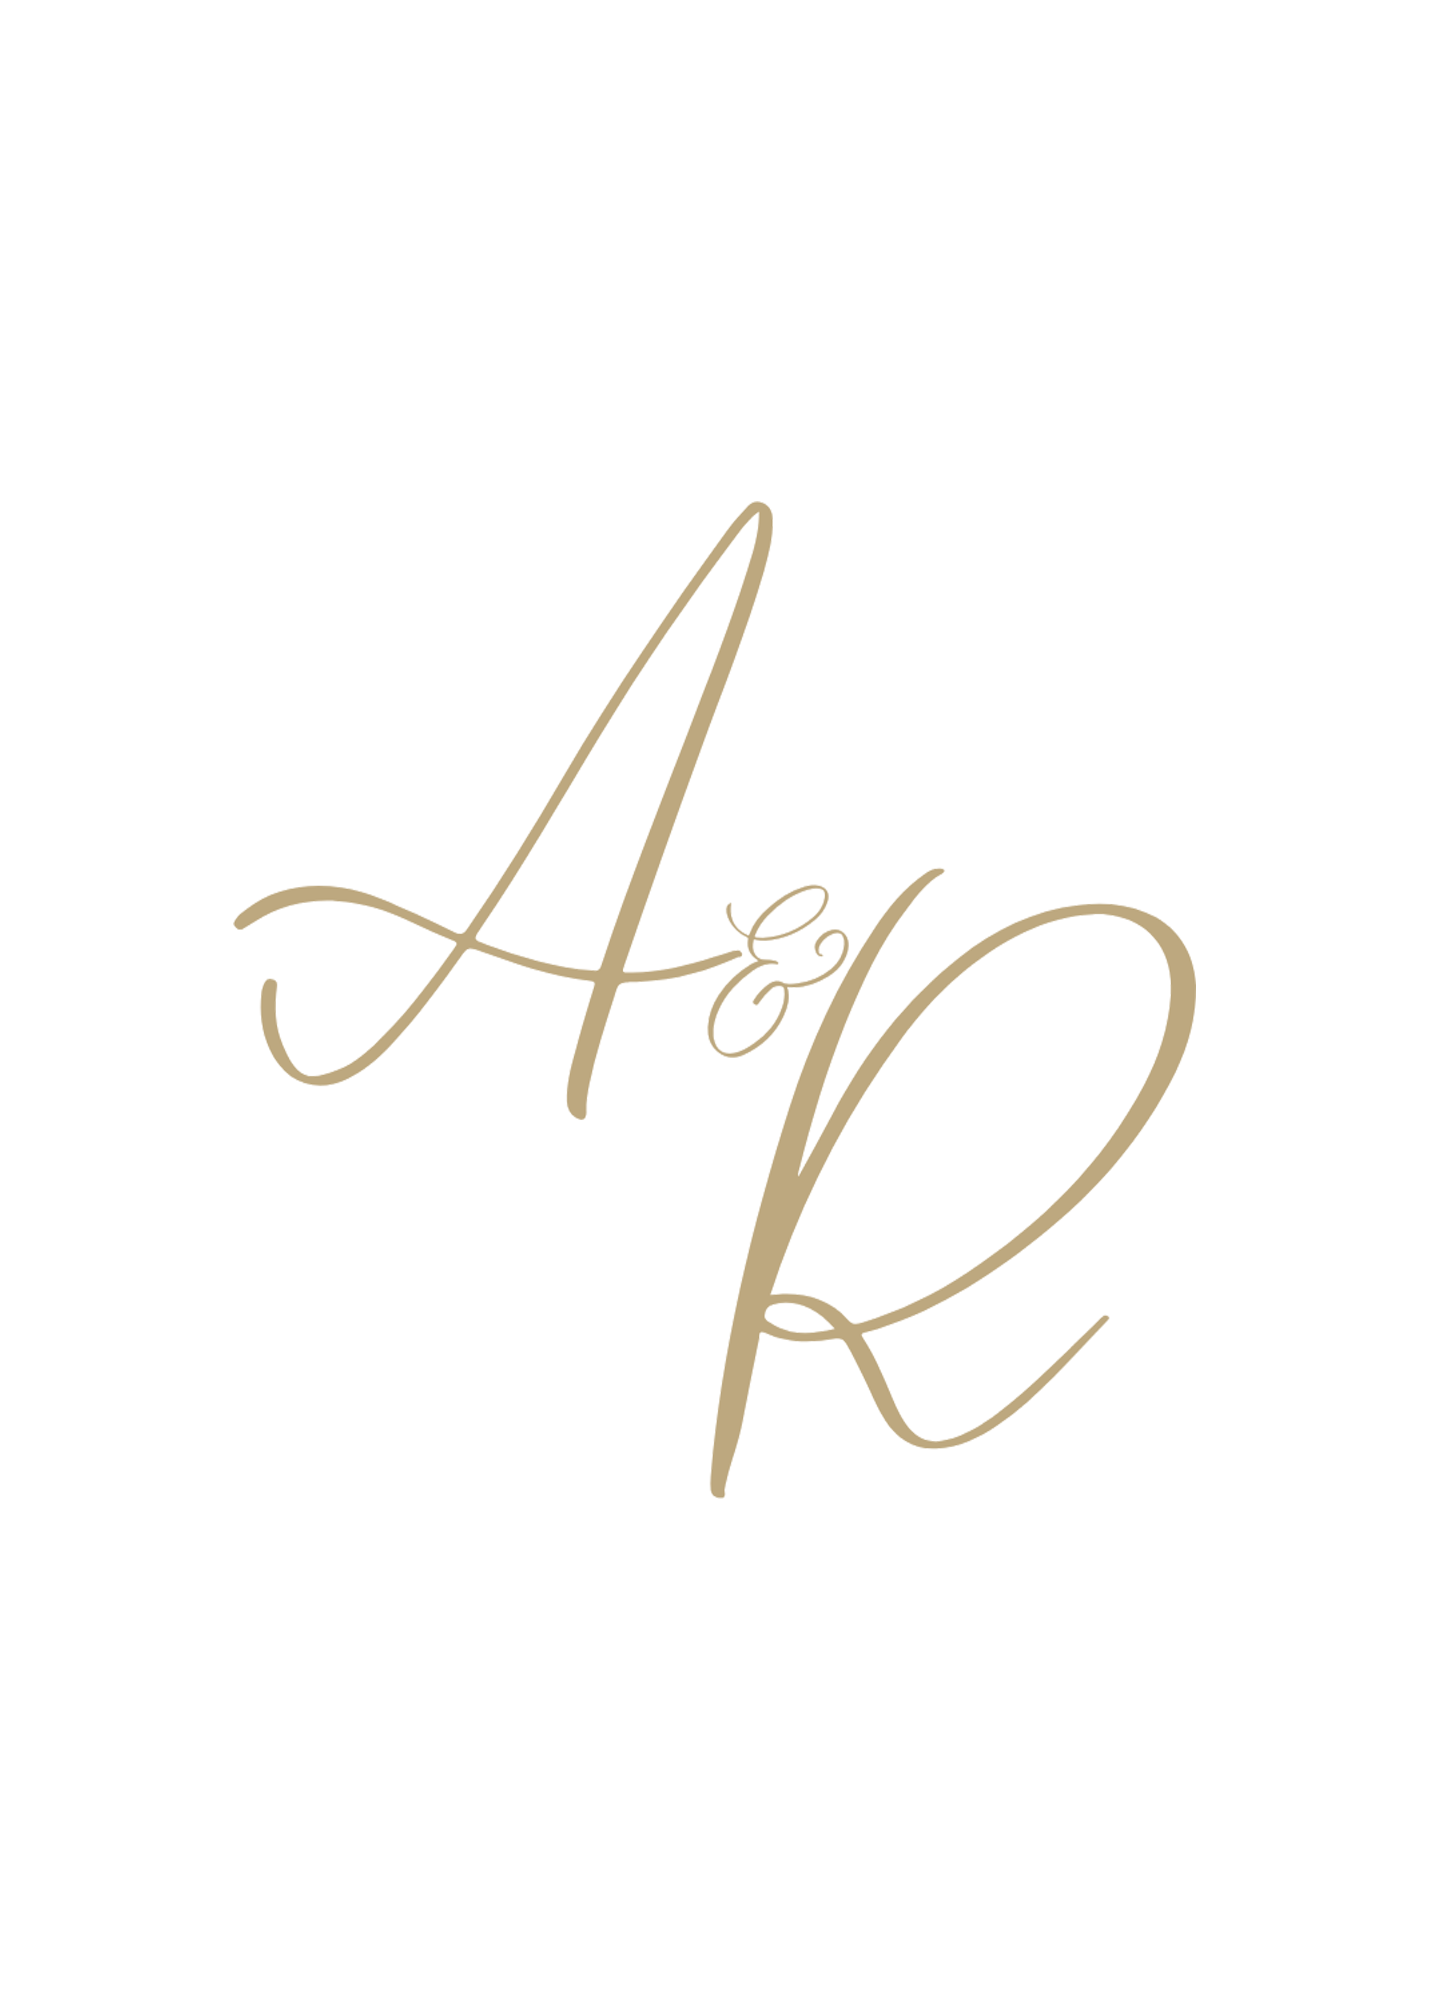
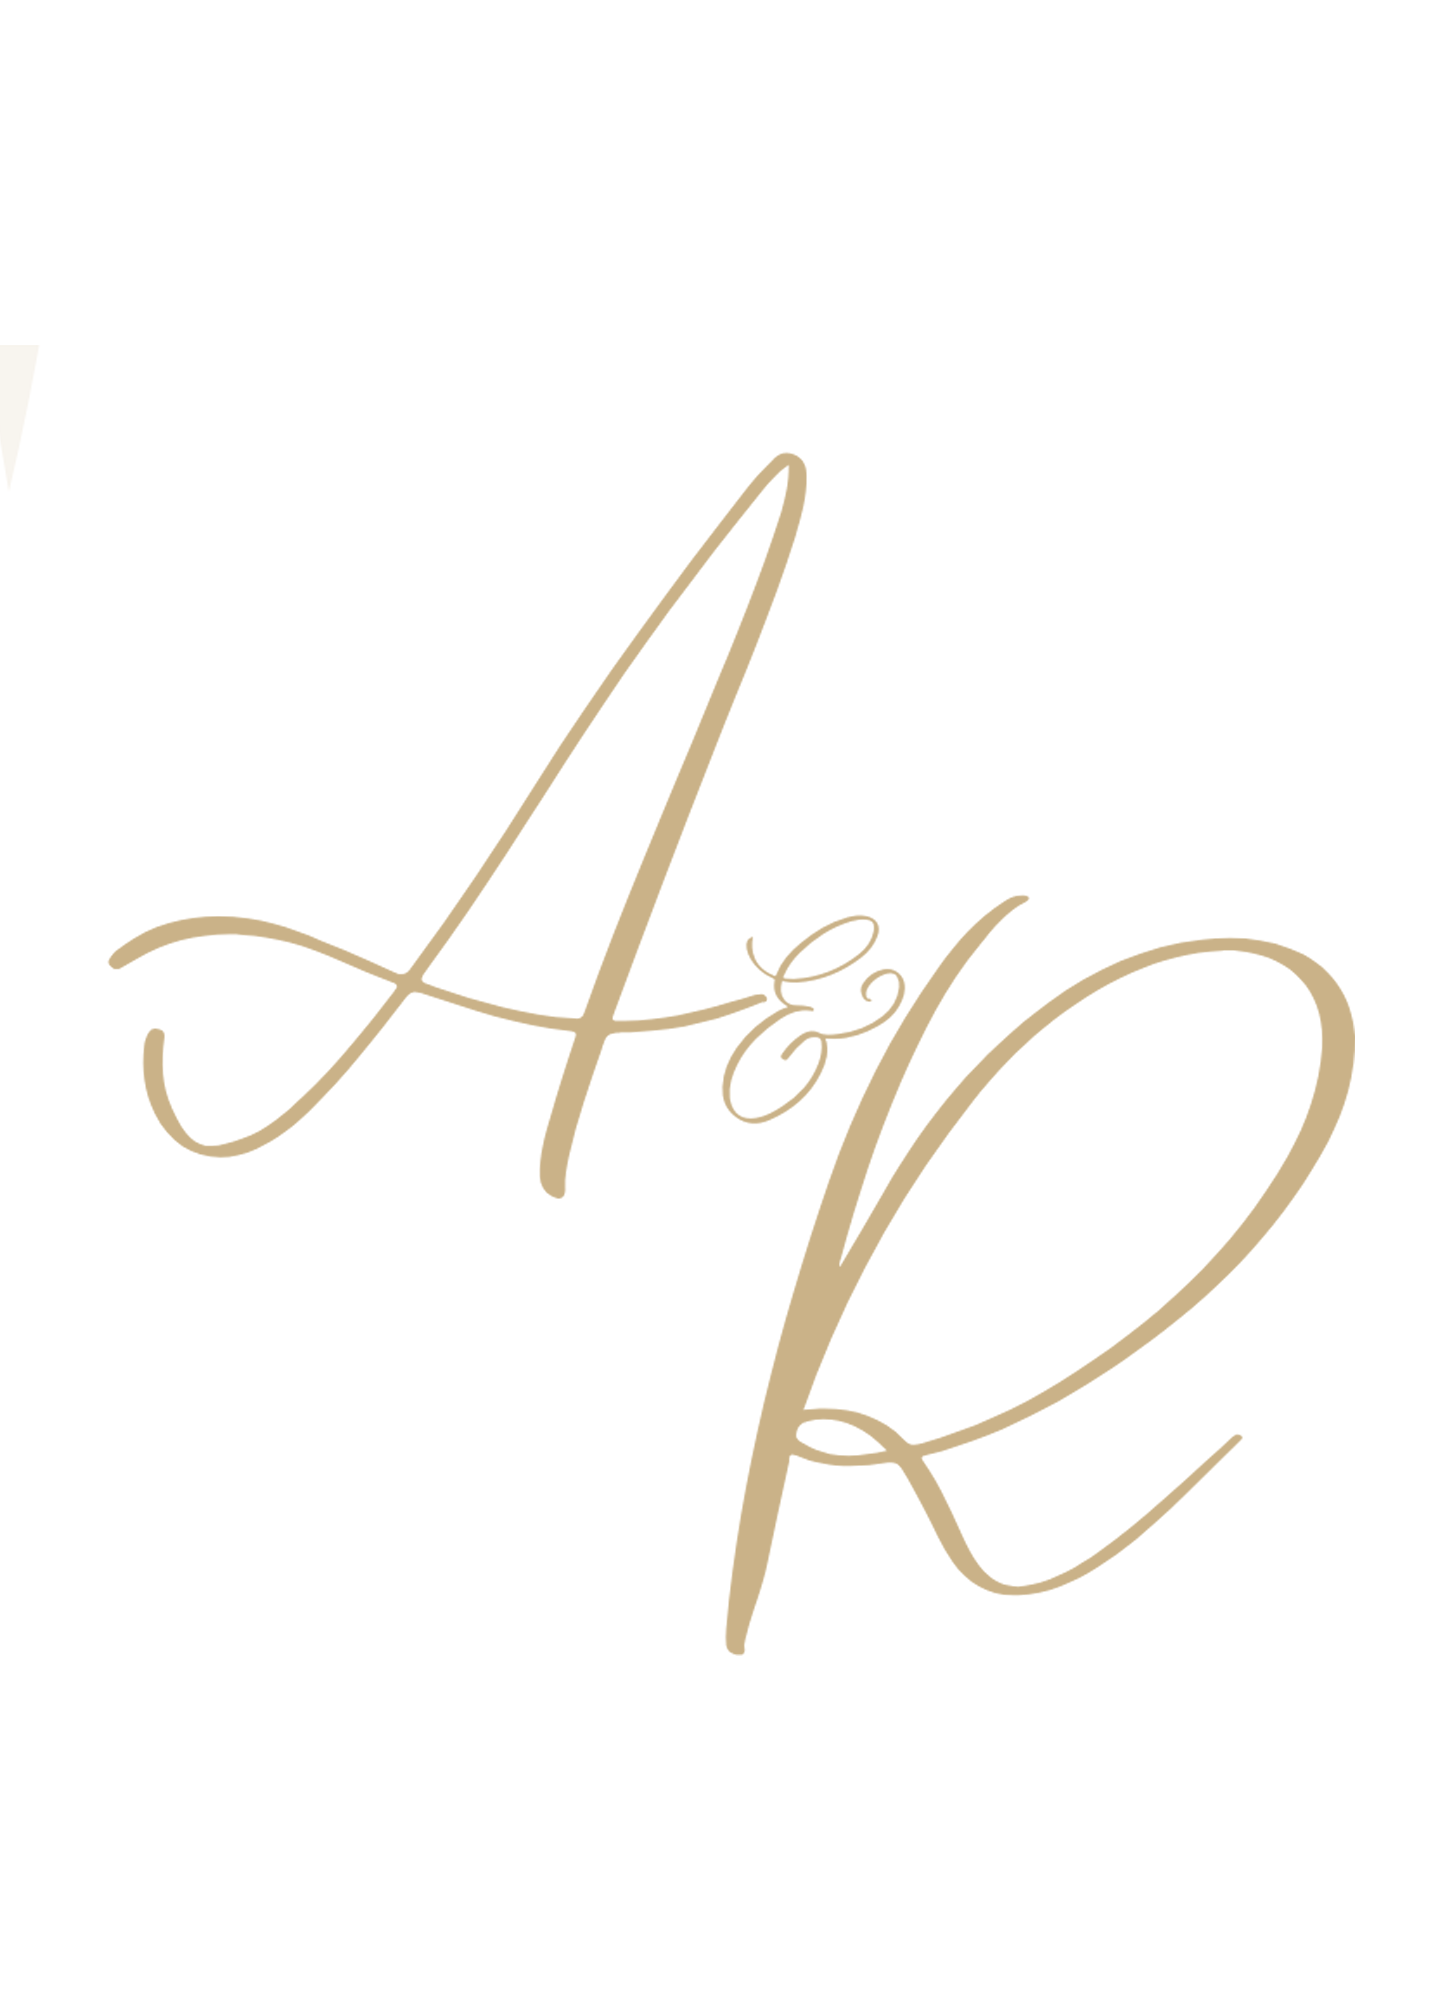
Monogram Fixed

diff --git a/public/gallery.html b/public/gallery.html
@@ -313,15 +313,15 @@
   }
 
   .img-container {
-      margin-bottom: -10px; /* brings image closer to text */
+      margin-bottom: -50px; /* brings image closer to text */
     }
 
   .monogram-img {
-    max-width: 100px;
+    max-width: 200px;
     height: auto;
-    display: block;
+    display: flex;
     margin: 0 auto;
-    padding: 0;
+    padding-bottom: 20px;
   }
 
   @media (max-width: 600px) {
